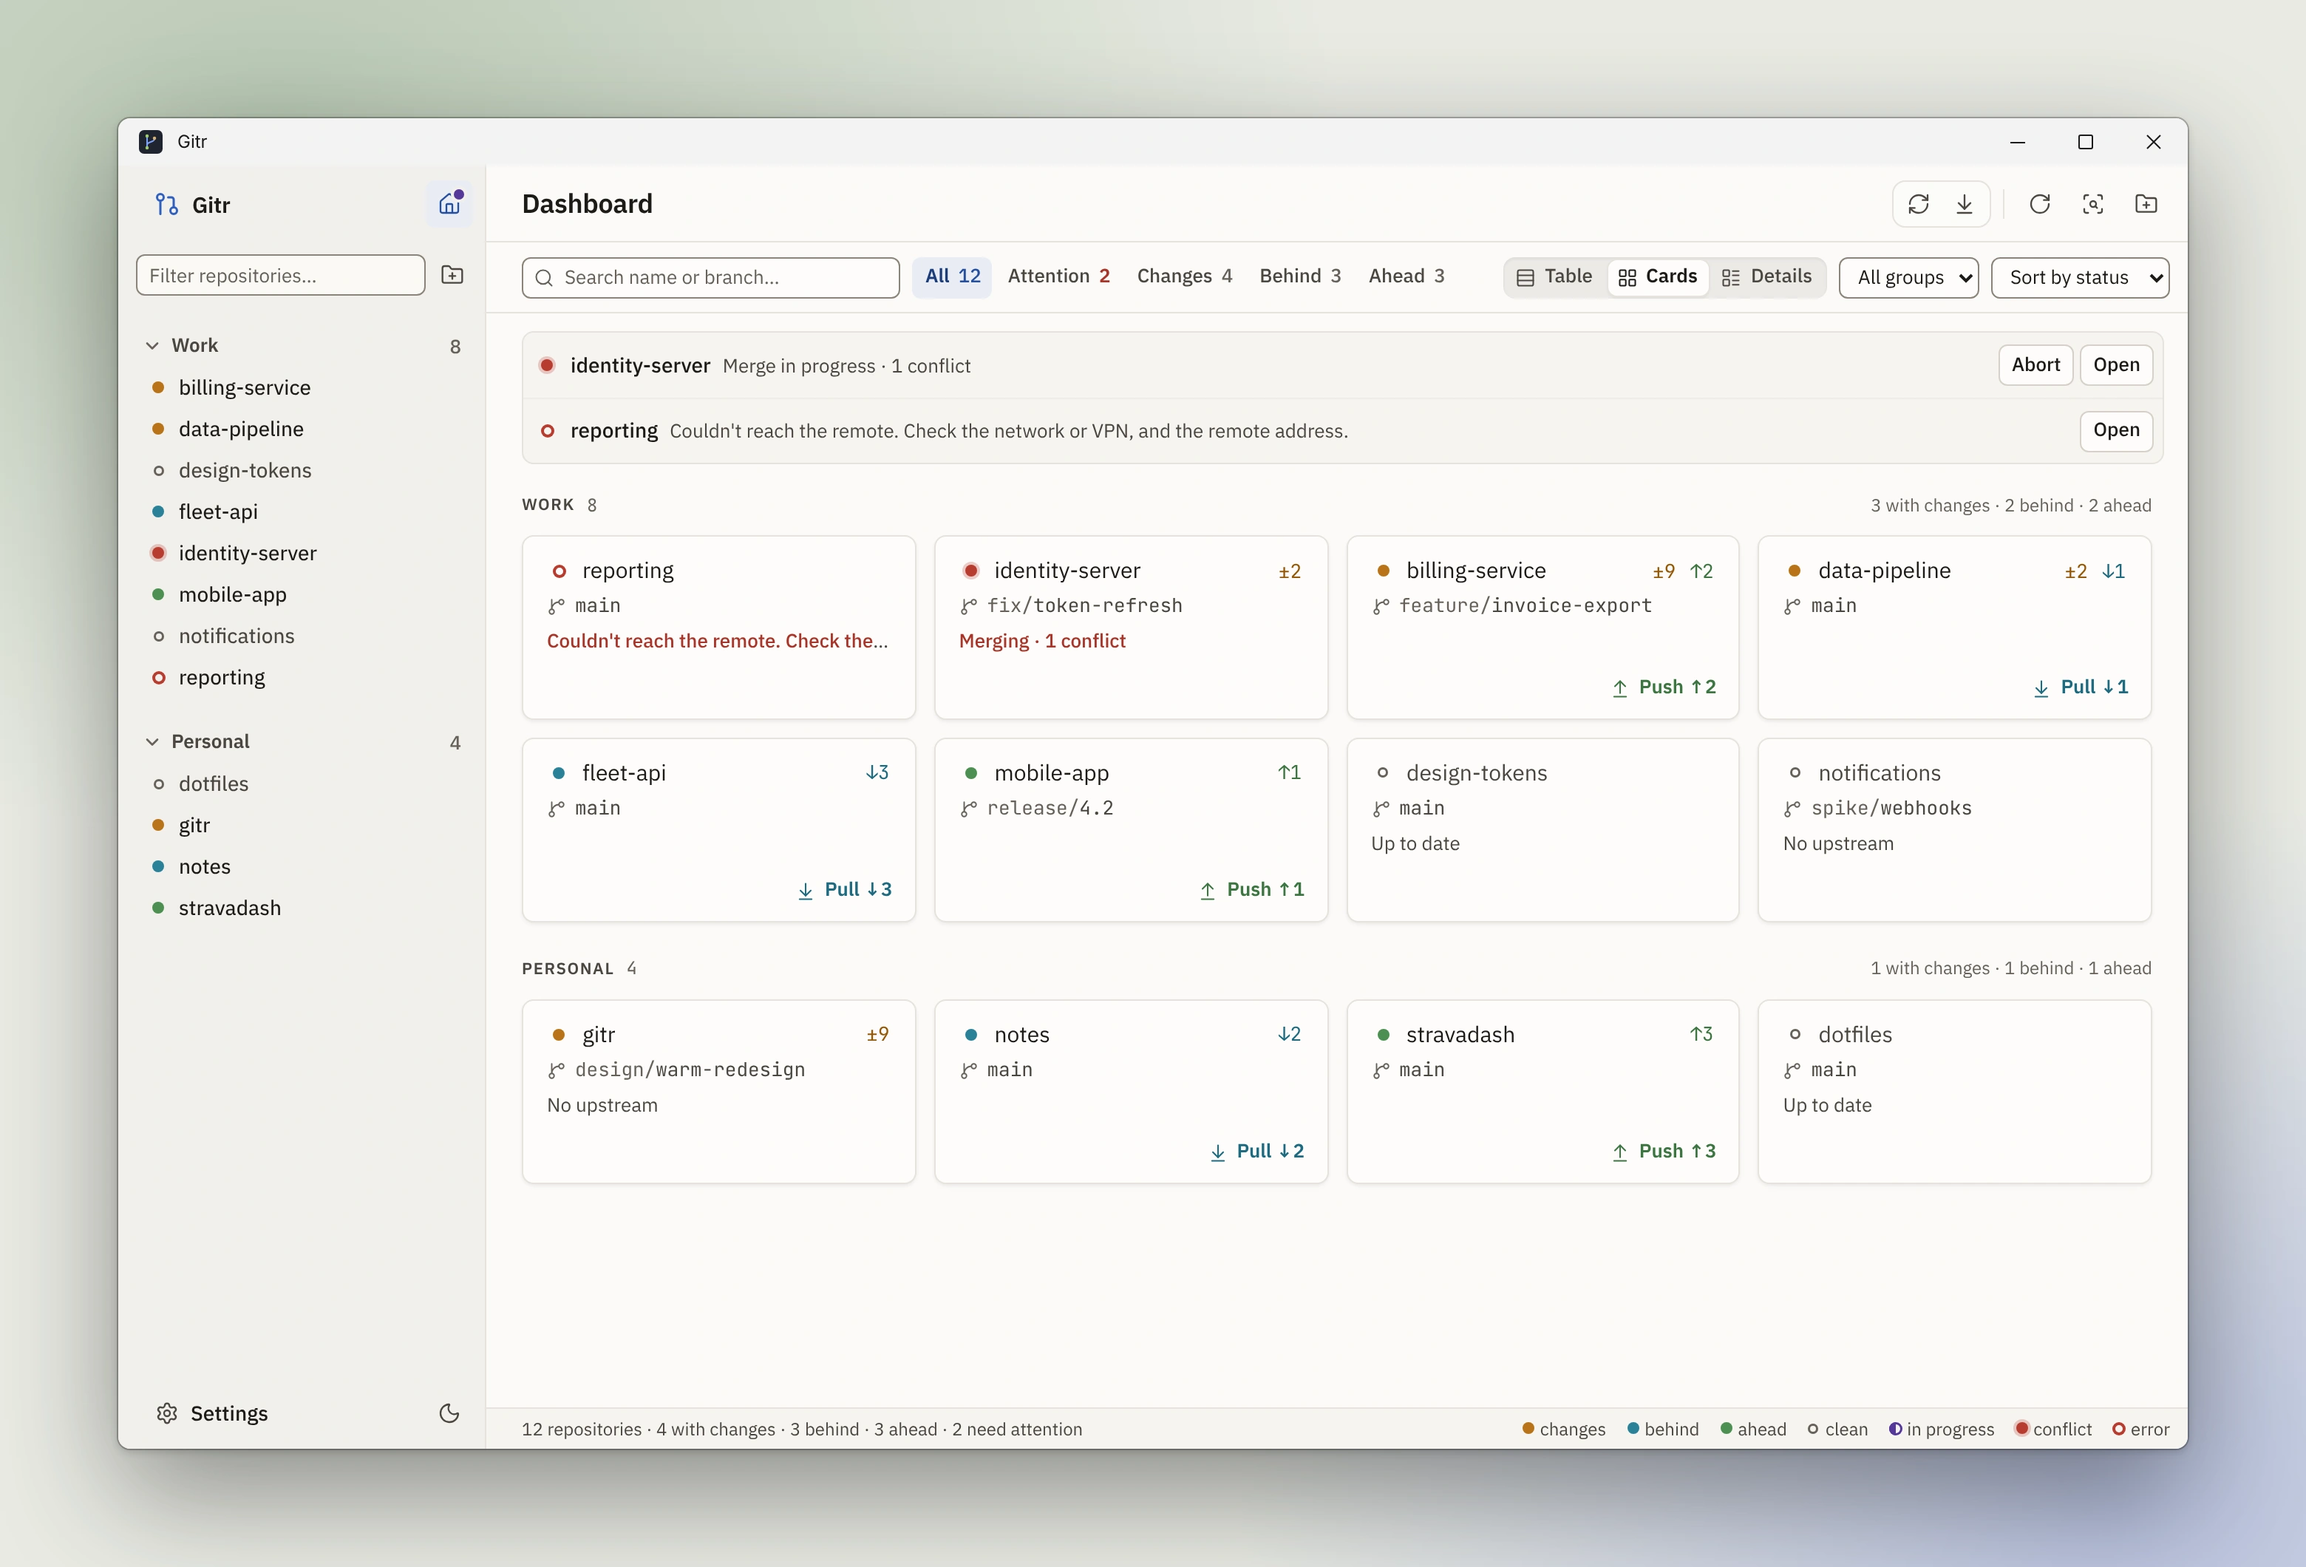
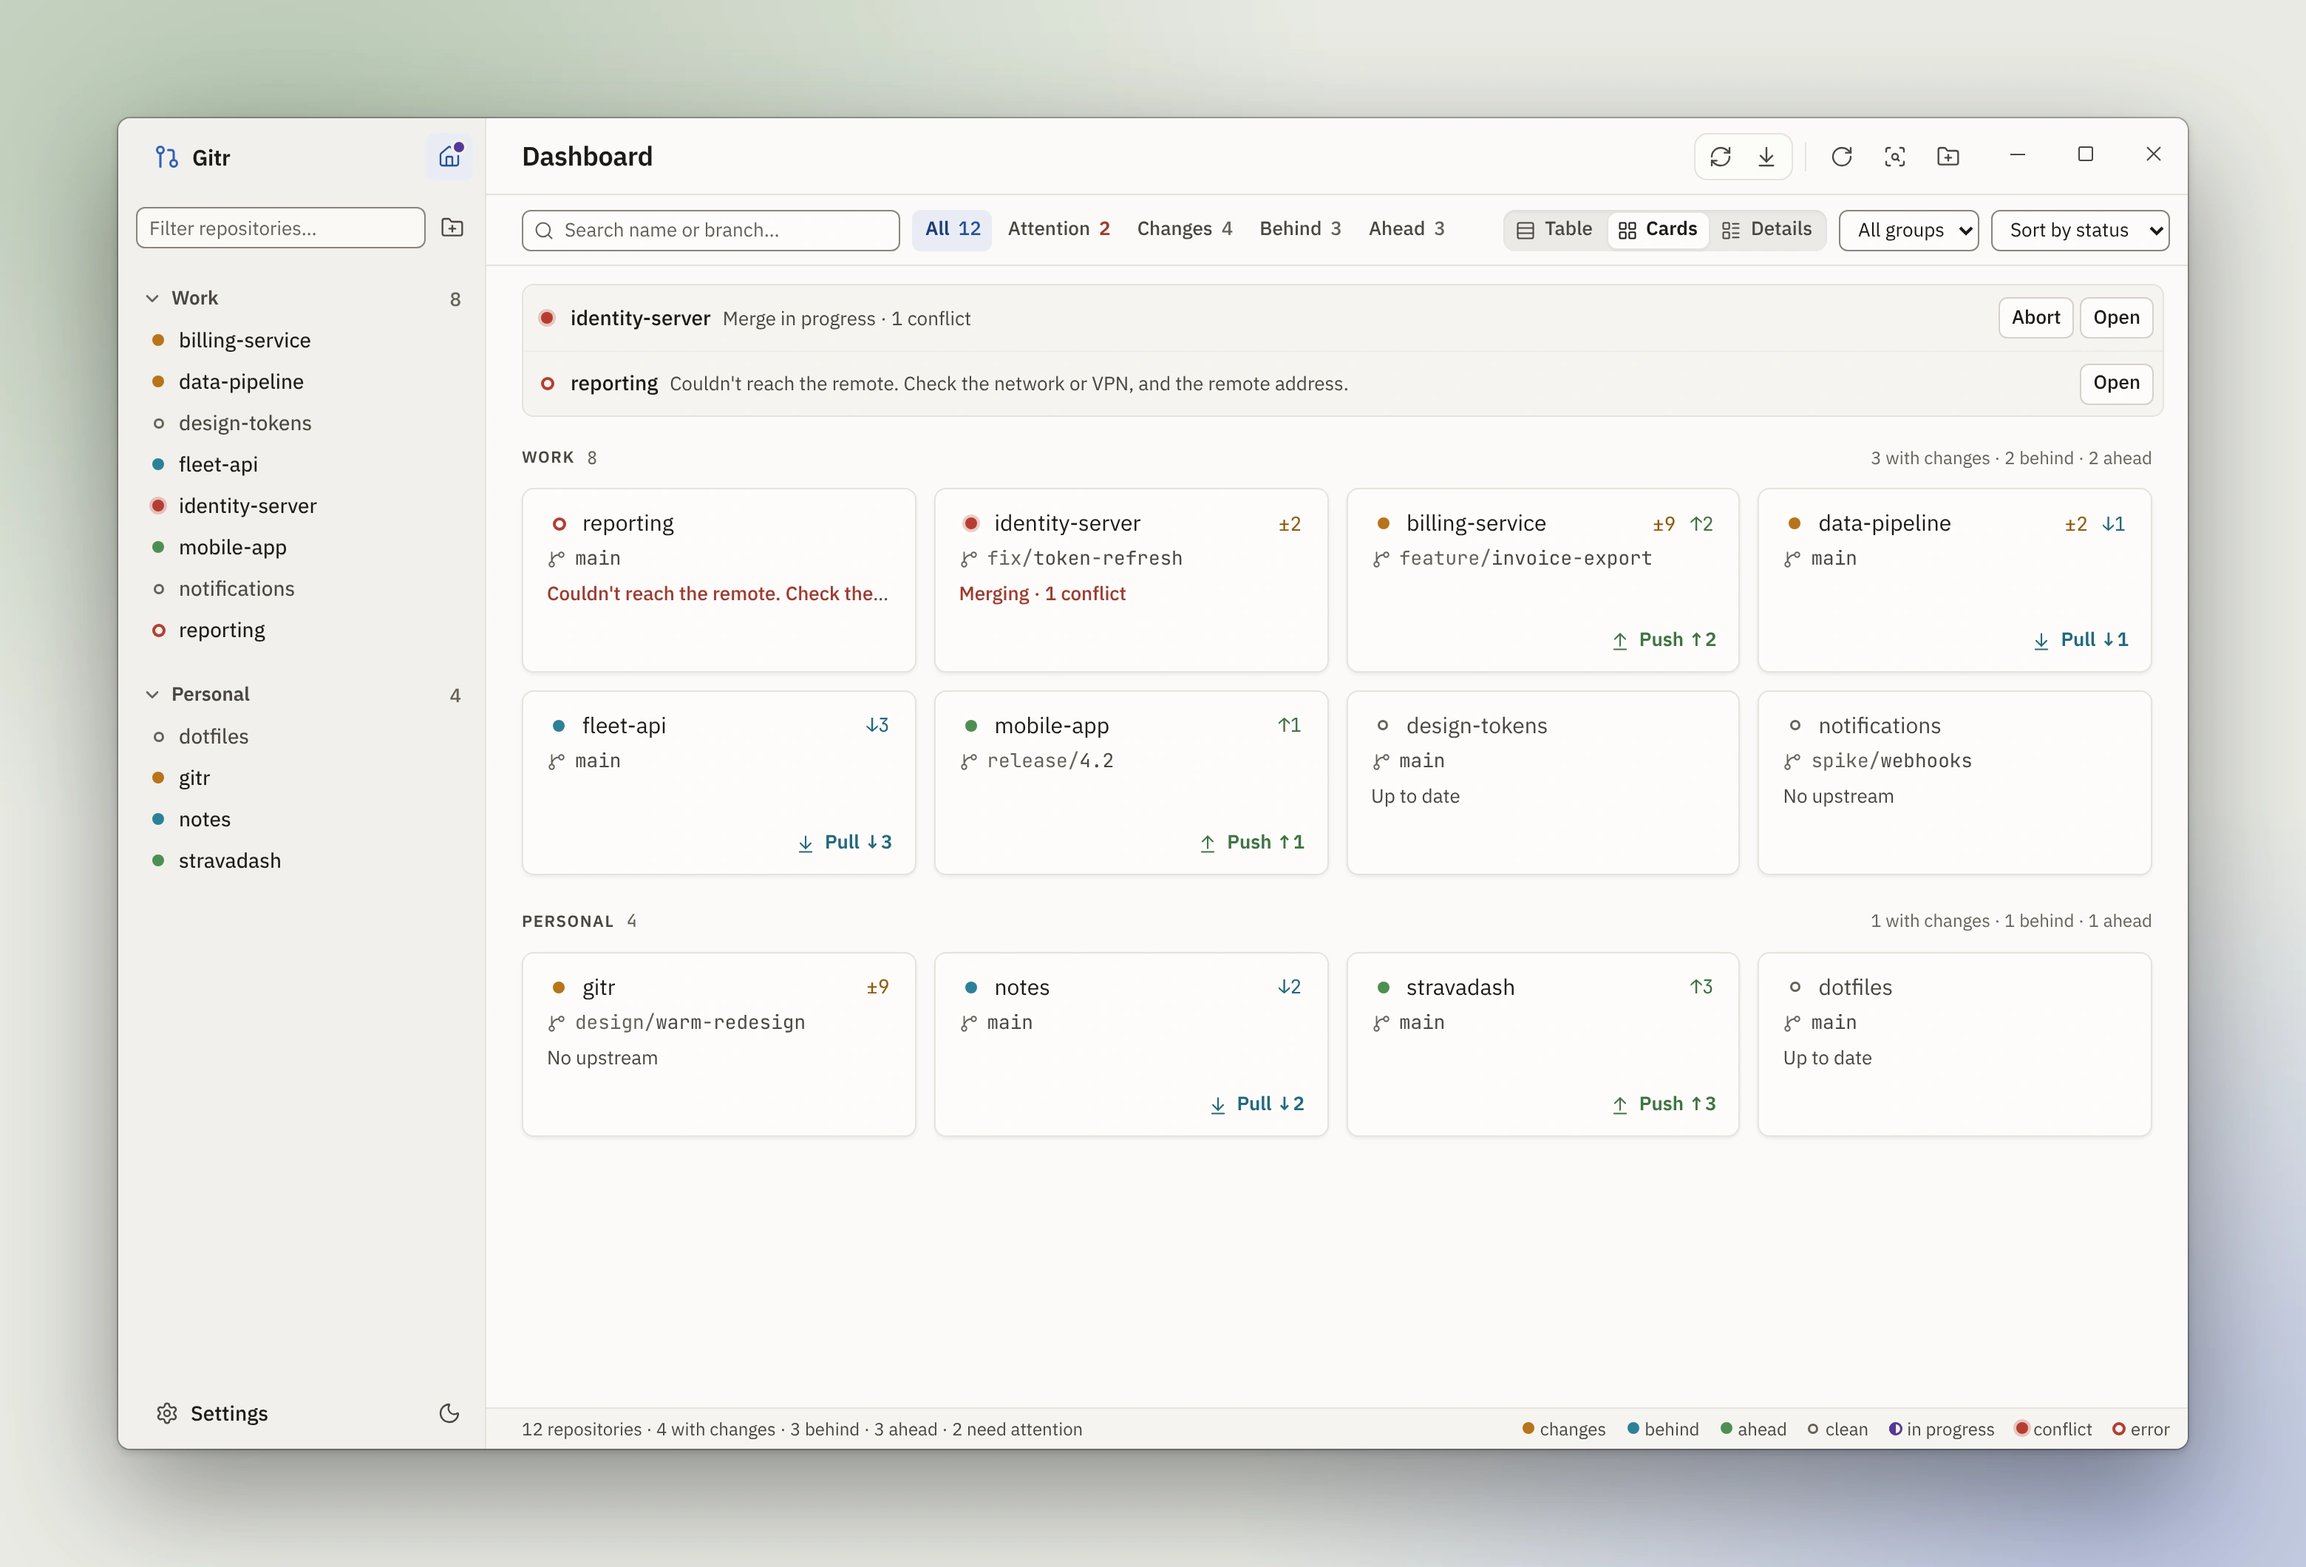
One surface: no native title bar, Gitr draws its own caption buttons (#71)
## What and why

The native Windows title bar made the app look dated. Now the sidebar
and the main area run all the way to the top edge as one surface.

- `decorations: false` in `tauri.conf.json`. Tauri keeps the Windows 11
shadow, rounded corners and resize edges for undecorated windows.
- `WindowControls`: Minimise, Maximise/Restore (the icon follows the
window's state) and Close, at the sheet's top-right over the first bar.
Close turns red on hover, as on Windows. The first toolbar or banner
leaves room for them with `--caption-w`.
- `lib/windowDrag.ts`: pressing the brand row, a toolbar or a top banner
drags the window, and a double-click there maximises or restores it.
Buttons, inputs and tabs inside those bars still get their own clicks.
- Capabilities: added `allow-minimize`, `allow-toggle-maximize`,
`allow-close` and `allow-start-dragging`.
- Screenshots no longer draw a fake title bar. The README shots are
regenerated.
- Mockup: https://claude.ai/artifact/LaaXwzsKurbm6kVskcWNQG

## Self-review

- [x] Read the whole diff on GitHub
- [x] `CHANGELOG.md` updated for user-visible changes
- [x] Bug fixes have a row in `docs/bug-ledger.md` (n/a: not a fix)
- [x] UI changes: `pnpm screenshots` run, `tools/screenshots/out/`
looked at, `docs/screenshots/` committed
- [x] Dependency changes: `pnpm notices` run (n/a: no dependency
changes)

Verified in the real debug build under Xvfb with tauri-driver. The
caption buttons render at the top right, and `toggle_maximize` and
[…]

diff --git a/ui/src/windowControls.test.tsx b/ui/src/windowControls.test.tsx
@@ -1,0 +1,73 @@
+import { afterEach, describe, expect, it, vi } from 'vite-plus/test'
+import { act, cleanup, fireEvent, render, screen } from '@testing-library/react'
+
+const win = vi.hoisted(() => ({
+  minimize: vi.fn(() => Promise.resolve()),
+  toggleMaximize: vi.fn(() => Promise.resolve()),
+  close: vi.fn(() => Promise.resolve()),
+  startDragging: vi.fn(() => Promise.resolve()),
+  isMaximized: vi.fn(() => Promise.resolve(false)),
+  onResized: vi.fn(() => Promise.resolve(() => {})),
+}))
+vi.mock('@tauri-apps/api/window', () => ({ getCurrentWindow: () => win }))
+
+import { WindowControls } from './components/WindowControls'
+import { installWindowDrag, isDragTarget } from './lib/windowDrag'
+
+afterEach(() => {
+  cleanup()
+  vi.clearAllMocks()
+  document.body.innerHTML = ''
+})
+
+describe('caption buttons', () => {
+  it('minimise, maximise and close the window', async () => {
+    render(<WindowControls />)
+    fireEvent.click(screen.getByRole('button', { name: 'Minimise' }))
+    fireEvent.click(screen.getByRole('button', { name: 'Maximise' }))
+    fireEvent.click(screen.getByRole('button', { name: 'Close' }))
+    expect(win.minimize).toHaveBeenCalledOnce()
+    expect(win.toggleMaximize).toHaveBeenCalledOnce()
+    expect(win.close).toHaveBeenCalledOnce()
+  })
+
+  it('offers Restore while maximised', async () => {
+    win.isMaximized.mockResolvedValueOnce(true)
+    render(<WindowControls />)
+    await act(async () => {})
+    expect(screen.getByRole('button', { name: 'Restore' })).toBeTruthy()
+  })
+})
+
+describe('dragging the window', () => {
+  const page = () => {
+    document.body.innerHTML = `
+      <nav class="sidebar"><div class="brand"><span id="name">Gitr</span><button id="home">Home</button></div><div id="tree"></div></nav>
+      <main class="main"><div class="dashboard"><header class="toolbar"><h1 id="title">Dashboard</h1><input id="search"></header><div id="body"></div></div></main>`
+    return (id: string) => document.getElementById(id)!
+  }
+
+  it('starts from the bars at the top, but not their controls or the content', () => {
+    const el = page()
+    expect(isDragTarget(el('name'))).toBe(true)
+    expect(isDragTarget(el('title'))).toBe(true)
+    expect(isDragTarget(document.querySelector('.toolbar'))).toBe(true)
+    expect(isDragTarget(el('home'))).toBe(false)
+    expect(isDragTarget(el('search'))).toBe(false)
+    expect(isDragTarget(el('tree'))).toBe(false)
+    expect(isDragTarget(el('body'))).toBe(false)
+  })
+
+  it('drags on a press and maximises on a double-click', () => {
+    const el = page()
+    const off = installWindowDrag(document)
+    fireEvent.mouseDown(el('title'), { button: 0, detail: 1 })
+    expect(win.startDragging).toHaveBeenCalledOnce()
+    fireEvent.mouseDown(el('title'), { button: 0, detail: 2 })
+    expect(win.toggleMaximize).toHaveBeenCalledOnce()
+    fireEvent.mouseDown(el('title'), { button: 2, detail: 1 })
+    fireEvent.mouseDown(el('home'), { button: 0, detail: 1 })
+    expect(win.startDragging).toHaveBeenCalledOnce()
+    off()
+  })
+})

diff --git a/ui/src/components/WindowControls.tsx b/ui/src/components/WindowControls.tsx
@@ -1,0 +1,64 @@
+import { useEffect, useState, type ReactNode } from 'react'
+import { current } from '../lib/windowDrag'
+
+// Gitr draws its own caption buttons: the window has no native title bar (decorations: false in
+// tauri.conf.json), so the sidebar and the sheet run to the top edge as one surface. The buttons
+// sit at the sheet's top-right corner, over the first bar of whatever view is open.
+
+const glyph = (d: ReactNode) => (
+  <svg width="10" height="10" viewBox="0 0 10 10" fill="none" stroke="currentColor" strokeWidth="1" aria-hidden>
+    {d}
+  </svg>
+)
+
+export function WindowControls() {
+  const [maximized, setMaximized] = useState(false)
+
+  useEffect(() => {
+    const win = current()
+    if (!win) return
+    let live = true
+    const read = () =>
+      win.isMaximized().then(
+        (m) => live && setMaximized(!!m),
+        () => {},
+      )
+    void read()
+    const off = win.onResized(() => void read()).catch(() => undefined)
+    return () => {
+      live = false
+      void off.then((f) => f?.())
+    }
+  }, [])
+
+  const run = (f: (win: NonNullable<ReturnType<typeof current>>) => Promise<unknown>) => () => {
+    const win = current()
+    if (win) void f(win).catch(() => {})
+  }
+  return (
+    <div className="caption" role="group" aria-label="Window">
+      <button className="caption-button" tabIndex={-1} aria-label="Minimise" title="Minimise" onClick={run((w) => w.minimize())}>
+        {glyph(<path d="M0 5.5h10" />)}
+      </button>
+      <button
+        className="caption-button"
+        tabIndex={-1}
+        aria-label={maximized ? 'Restore' : 'Maximise'}
+        title={maximized ? 'Restore down' : 'Maximise'}
+        onClick={run((w) => w.toggleMaximize())}
+      >
+        {maximized
+          ? glyph(
+              <>
+                <rect x="0.5" y="2.5" width="7" height="7" rx="1" />
+                <path d="M2.5 2.5V1.5a1 1 0 0 1 1-1h5a1 1 0 0 1 1 1v5a1 1 0 0 1-1 1h-1" />
+              </>,
+            )
+          : glyph(<rect x="0.5" y="0.5" width="9" height="9" rx="1" />)}
+      </button>
+      <button className="caption-button close" tabIndex={-1} aria-label="Close" title="Close" onClick={run((w) => w.close())}>
+        {glyph(<path d="M.5 .5l9 9M9.5 .5l-9 9" />)}
+      </button>
+    </div>
+  )
+}

diff --git a/ui/src/lib/windowDrag.ts b/ui/src/lib/windowDrag.ts
@@ -1,0 +1,36 @@
+import { getCurrentWindow } from '@tauri-apps/api/window'
+
+// Moving the window by its top bars: it has no native title bar (decorations: false).
+
+/** The window, or null outside Tauri (unit tests render the app without it). */
+export function current() {
+  try {
+    return getCurrentWindow()
+  } catch {
+    return null
+  }
+}
+
+/** Elements a press on starts a window drag: the bars at the top of the window. */
+const DRAG = '.brand, .toolbar, .main > .banner'
+/** Inside a drag bar, these keep their own clicks. */
+const INTERACTIVE = 'button, a, input, select, textarea, label, summary, [role="button"], [role="tab"], [contenteditable], .caption'
+
+/** True when a primary press on `target` should move the window instead of reaching the page. */
+export function isDragTarget(target: EventTarget | null): boolean {
+  if (!(target instanceof Element)) return false
+  return !!target.closest(DRAG) && !target.closest(INTERACTIVE)
+}
+
+/** Drag the window from the top bars, and maximise or restore it on a double-click there. */
+export function installWindowDrag(doc: Document): () => void {
+  const onDown = (e: MouseEvent) => {
+    if (e.button !== 0 || !isDragTarget(e.target)) return
+    e.preventDefault()
+    const win = current()
+    if (!win) return
+    void (e.detail === 2 ? win.toggleMaximize() : win.startDragging()).catch(() => {})
+  }
+  doc.addEventListener('mousedown', onDown)
+  return () => doc.removeEventListener('mousedown', onDown)
+}

diff --git a/ui/src/index.css b/ui/src/index.css
@@ -816,6 +816,55 @@ ul:focus-visible,
 }
 
 /*
+ * Caption buttons: Minimise, Maximise, Close, drawn by Gitr because the window has no native title
+ * bar. They sit in the sheet's top-right corner over the first bar, which leaves them room; the
+ * bars at the top (brand, toolbars, a banner on top) drag the window.
+ */
+:root {
+  --caption-w: 138px;
+}
+.caption {
+  position: fixed;
+  top: 0;
+  right: 0;
+  z-index: 30;
+  display: flex;
+  height: var(--strip);
+}
+.caption-button {
+  width: 46px;
+  height: 100%;
+  padding: 0;
+  border: 0;
+  border-radius: 0;
+  background: transparent;
+  box-shadow: none;
+  color: var(--ink-2);
+}
+.caption-button:hover:not(:disabled) {
+  background: var(--hover);
+  color: var(--ink);
+}
+.caption-button:active:not(:disabled) {
+  background: var(--press);
+}
+/* Close turns the Windows caption red. */
+.caption-button.close:hover:not(:disabled),
+.caption-button.close:active:not(:disabled) {
+  background: #c42b1c;
+  color: #ffffff;
+}
+.main > .banner:first-child,
+.main > :first-child > .toolbar:first-child {
+  padding-right: calc(var(--caption-w) + var(--s4));
+}
+.brand,
+.toolbar,
+.main > .banner {
+  user-select: none;
+}
+
+/*
  * Splitters: a 0-wide (or 0-tall) item between two panes with an 8px grab area over their shared
  * hairline. The hairline turns cobalt while hovered, dragged or focused.
  */

diff --git a/ui/src/App.tsx b/ui/src/App.tsx
@@ -19,6 +19,8 @@ import { RepoSwitcher } from './components/RepoSwitcher'
 import { cyclePane } from './lib/panes'
 import { Splitter } from './components/Splitter'
 import { useLayout } from './layout'
+import { WindowControls } from './components/WindowControls'
+import { installWindowDrag } from './lib/windowDrag'
 
 const SIDEBAR_MIN = 180
 const SIDEBAR_MAX = 480
@@ -48,6 +50,8 @@ export default function App() {
     window.addEventListener('unhandledrejection', onRejection)
     return () => window.removeEventListener('unhandledrejection', onRejection)
   }, [])
+
+  useEffect(() => installWindowDrag(document), [])
 
   useEffect(() => {
     api.devtoolsAvailable().then(useApp.getState().setDevtools, () => {})
@@ -138,6 +142,7 @@ export default function App() {
           {view.kind === 'repo' && <RepoView key={view.path} path={view.path} />}
         </ErrorBoundary>
       </main>
+      <WindowControls />
       <Toasts />
       {switcher && <RepoSwitcher onClose={() => setSwitcher(false)} />}
     </div>

diff --git a/CHANGELOG.md b/CHANGELOG.md
@@ -5,6 +5,9 @@ The format follows [Keep a Changelog](https://keepachangelog.com/en/1.1.0/).
 
 ## [Unreleased]
 
+### Changed
+- **One surface, no title bar.** The Windows title bar is gone: the sidebar and the main area now run to the top of the window, and Minimise, Maximise and Close sit at the top right, beside the toolbar. Drag the window by the top bar (beside "Gitr" or the page title), and double-click it to maximise or restore.
+
 ## [0.2.1] - 2026-11-05
 
 ### Changed
